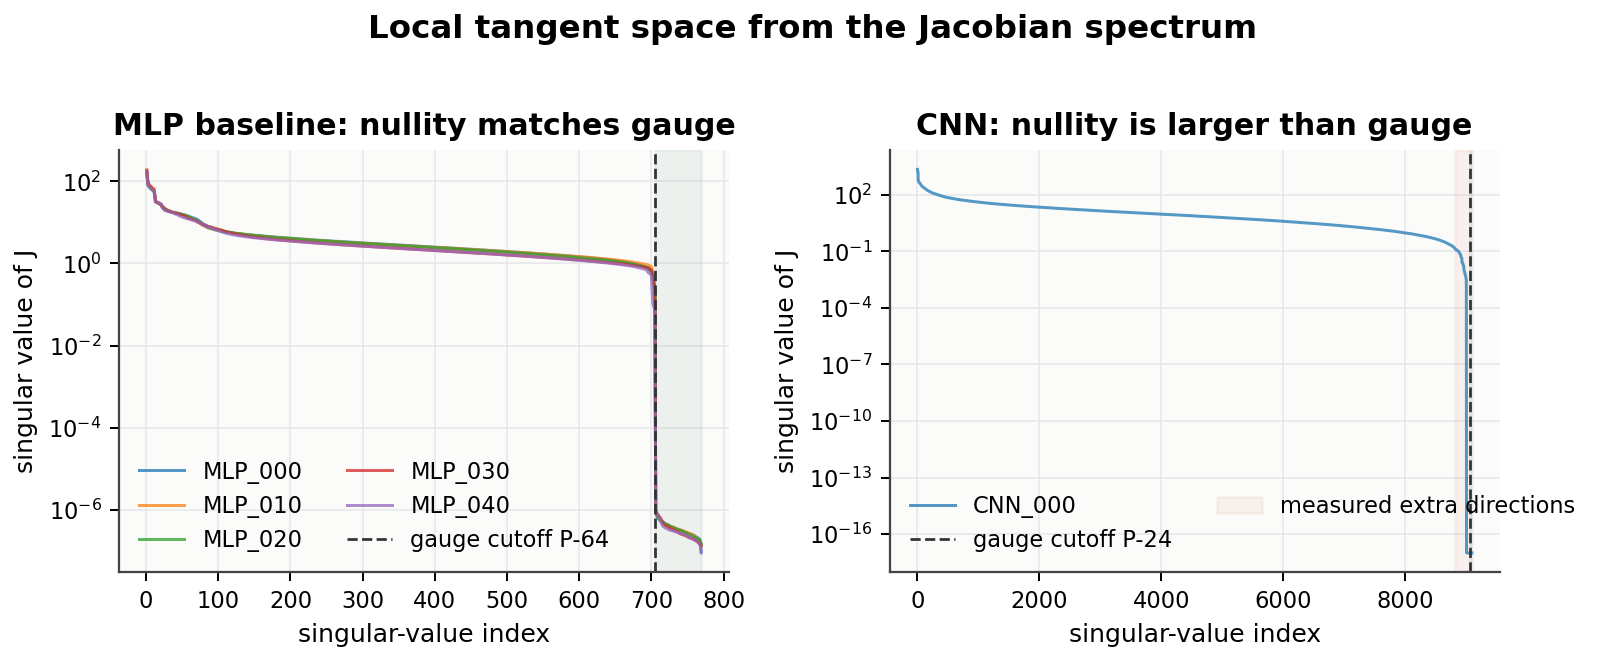
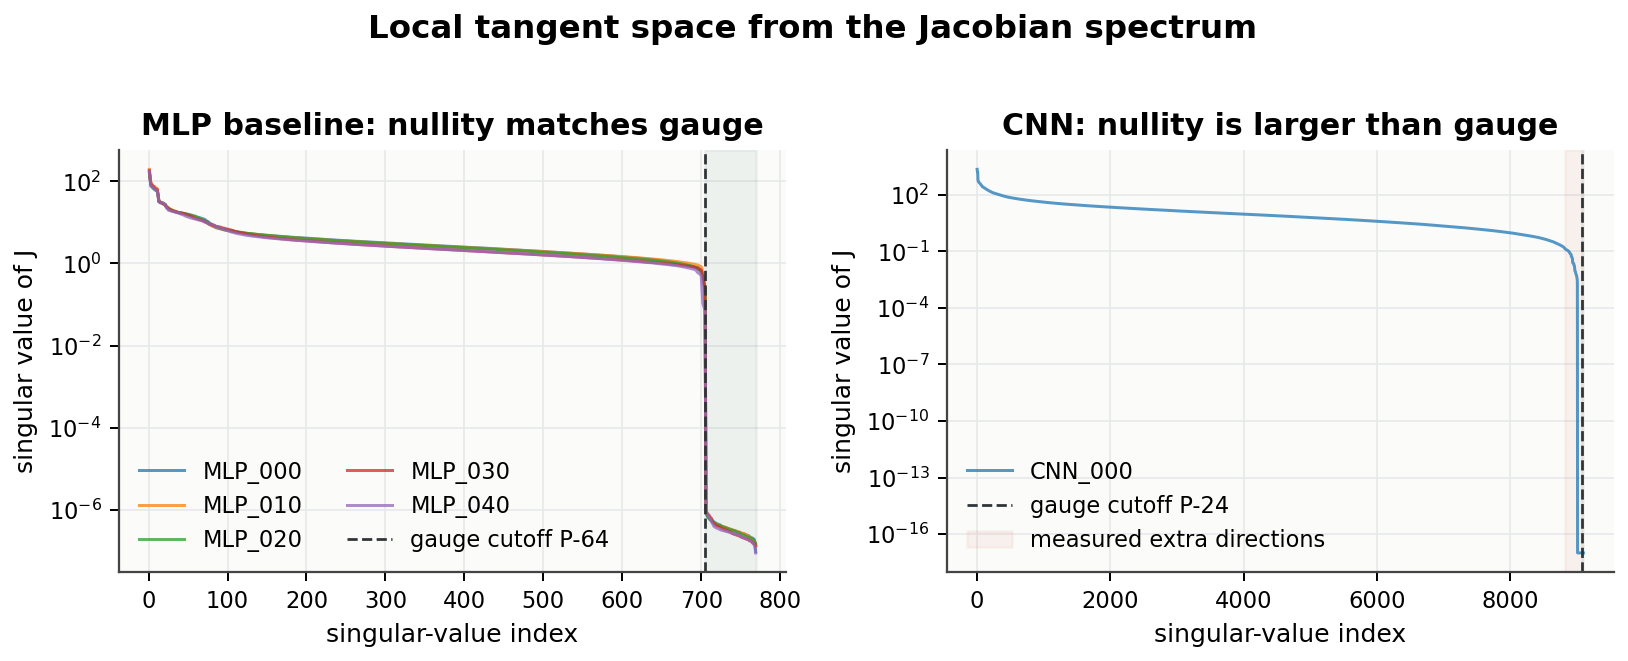
Fix concept figure gauge orbit annotation

diff --git a/src/plots.py b/src/plots.py
@@ -120,8 +120,13 @@ def plot_concept_cartoon(out_path: Path) -> None:
     ax.plot(x, y, color=GREEN, lw=3, solid_capstyle="round")
     ax.add_patch(Circle(theta, 0.23, facecolor=BLUE, edgecolor="white", lw=3, zorder=5))
 
+    gauge_t = 1.4
+    gauge_xy = (
+        theta[0] + 1.35 * gauge_t,
+        theta[1] + 0.38 * np.sin(1.5 * gauge_t),
+    )
     annotate(ax, "trained representative", theta, (1.25, 1.0), BLUE, ha="left")
-    annotate(ax, "known architectural gauge orbit", (5.0, 2.1), (6.4, 0.85), GREEN)
+    annotate(ax, "known architectural gauge orbit", gauge_xy, (6.4, 0.85), GREEN)
     annotate(ax, "possible wider equivalence sheet", (2.2, 3.65), (2.6, 4.55), ORANGE)
 
     ax.plot([7.6, 7.6], [0.6, 4.4], color=GRID, lw=1.4)
@@ -187,7 +192,8 @@ def plot_jacobian_spectrum(results_dir: Path, out_path: Path) -> None:
         ax.set_title(title)
         ax.set_xlabel("singular-value index")
         ax.set_ylabel("singular value of J")
-        ax.legend(loc="lower left", ncol=2)
+        legend_cols = 2 if shade_color != ORANGE and len(files) > 2 else 1
+        ax.legend(loc="lower left", ncol=legend_cols)
 
     fig.suptitle("Local tangent space from the Jacobian spectrum", y=1.02,
                  fontsize=13, fontweight="bold")